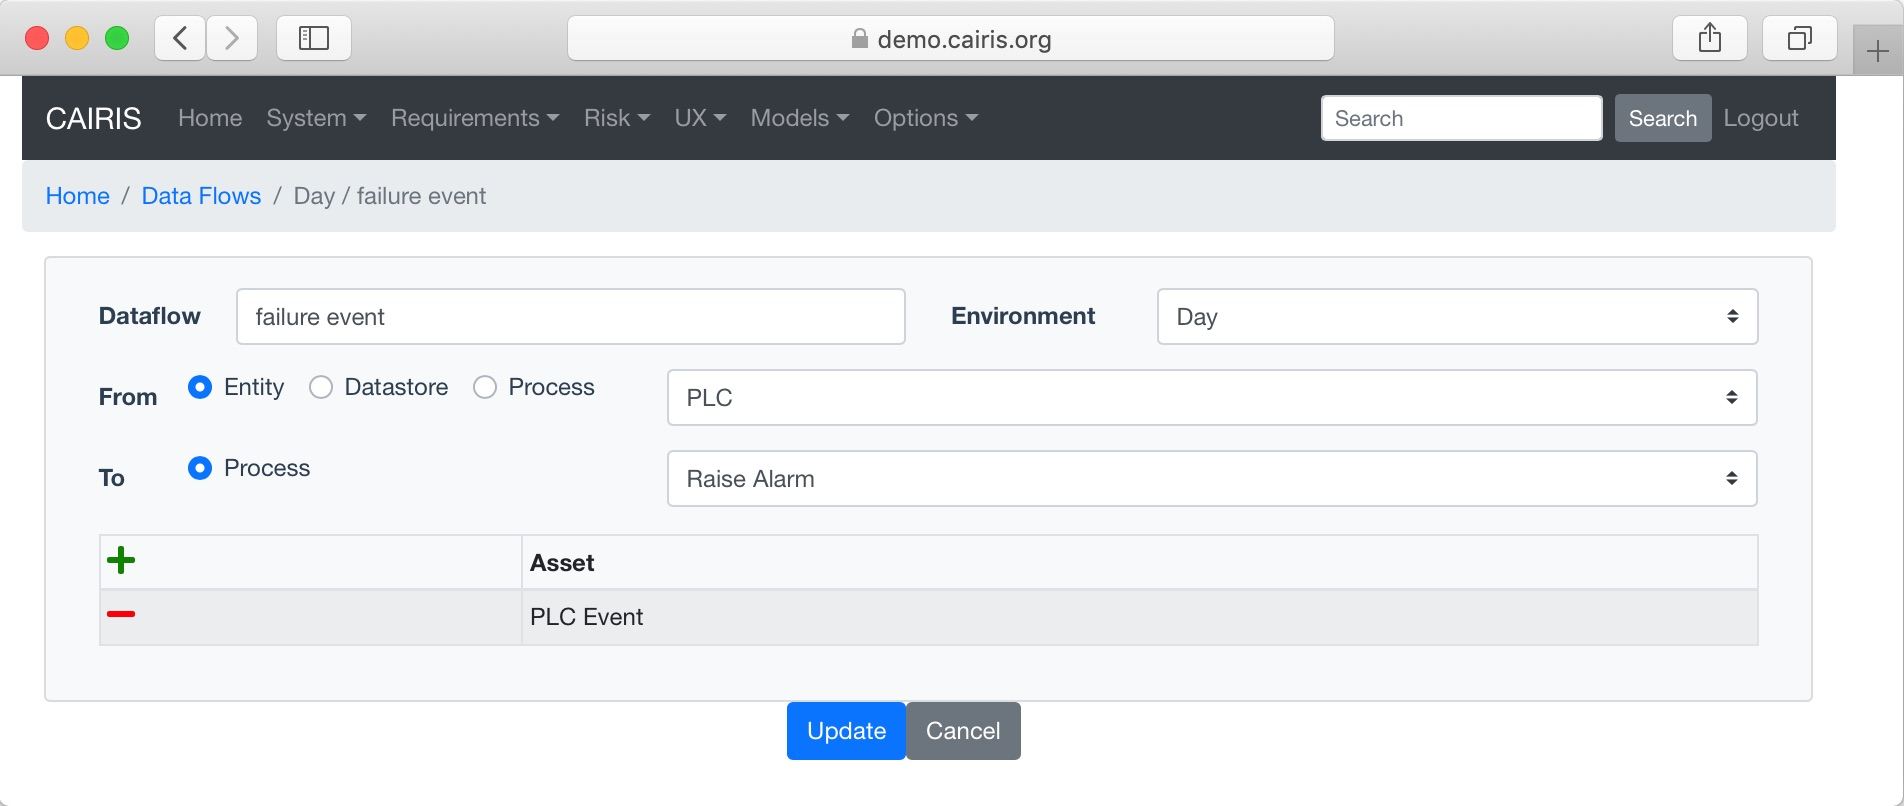
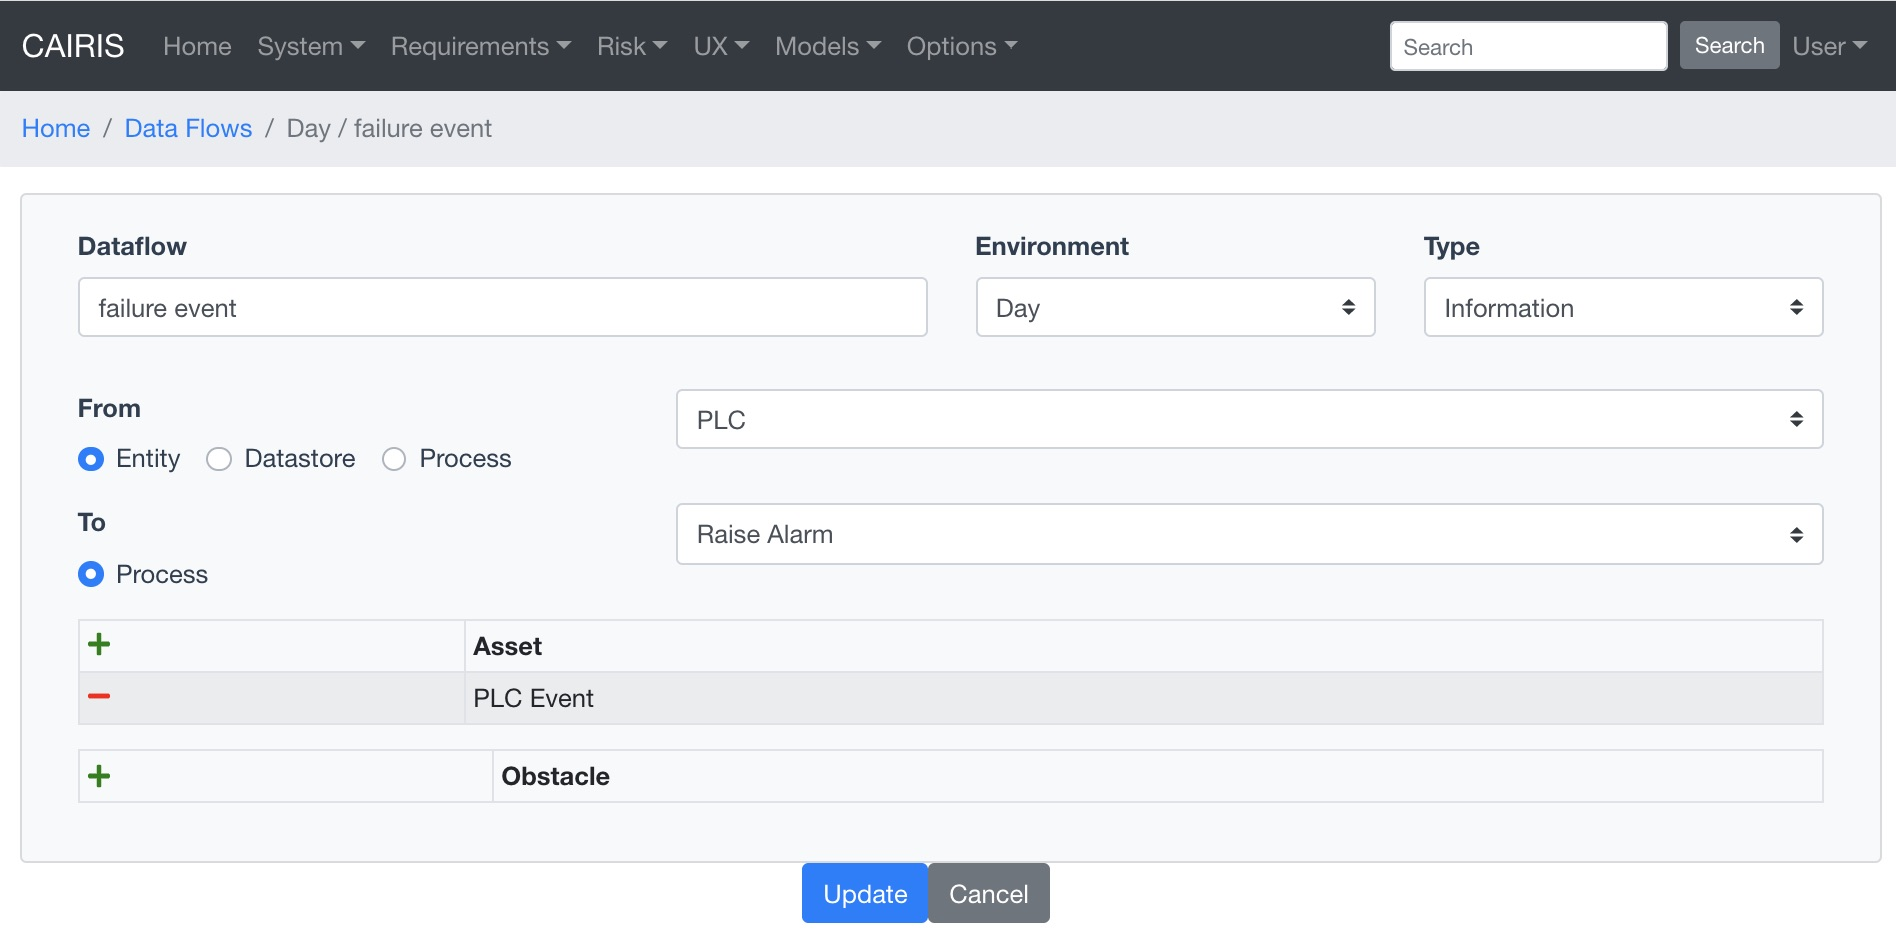
Fix #531

diff --git a/cairis/core/MySQLDatabaseProxy.py b/cairis/core/MySQLDatabaseProxy.py
@@ -4651,10 +4651,10 @@ class MySQLDatabaseProxy:
   def getDataFlows(self,dfName='',envName=''):
     dfRows = self.responseList('call getDataFlows(:df,:env)',{'df':dfName,'env':envName},'MySQL error getting data flows')
     dataFlows = []
-    for dfName,envName,fromName,fromType,toName,toType in dfRows:
+    for dfName,dfType,envName,fromName,fromType,toName,toType in dfRows:
       dfAssets = self.getDataFlowAssets(dfName,envName)
       dfObs = self.getDataFlowObstacles(dfName,envName)
-      parameters = DataFlowParameters(dfName,envName,fromName,fromType,toName,toType,dfAssets,dfObs)
+      parameters = DataFlowParameters(dfName,dfType,envName,fromName,fromType,toName,toType,dfAssets,dfObs)
       df = ObjectFactory.build(-1,parameters)
       dataFlows.append(df)
     return dataFlows
@@ -4668,6 +4668,7 @@ class MySQLDatabaseProxy:
 
   def addDataFlow(self,parameters):
     dfName = parameters.name()
+    dfType = parameters.type()
     envName = parameters.environment()
     fromName = parameters.fromName()
     fromType = parameters.fromType()
@@ -4675,7 +4676,7 @@ class MySQLDatabaseProxy:
     toType = parameters.toType()
     dfAssets = parameters.assets()
     dfObs = parameters.obstacles()
-    self.updateDatabase('call addDataFlow(:df,:env,:fName,:fType,:tName,:tType)',{'df':dfName,'env':envName,'fName':fromName,'fType':fromType,'tName':toName,'tType':toType},'MySQL error adding data flow')
+    self.updateDatabase('call addDataFlow(:df,:dfType,:env,:fName,:fType,:tName,:tType)',{'df':dfName,'dfType':dfType,'env':envName,'fName':fromName,'fType':fromType,'tName':toName,'tType':toType},'MySQL error adding data flow')
     for dfAsset in dfAssets:
       self.addDataFlowAsset(dfName,envName,fromType,fromName,toType,toName,dfAsset)
     for dfOb in dfObs:
@@ -4689,6 +4690,7 @@ class MySQLDatabaseProxy:
 
   def updateDataFlow(self,oldDfName,oldEnvName,parameters):
     dfName = parameters.name()
+    dfType = parameters.type()
     envName = parameters.environment()
     fromName = parameters.fromName()
     fromType = parameters.fromType()
@@ -4698,7 +4700,7 @@ class MySQLDatabaseProxy:
     dfObs = parameters.obstacles()
     session = self.updateDatabase('call deleteDataFlowAssets(:df,:env)',{'df':oldDfName,'env':oldEnvName},'MySQL error deleting data flow assets',None,False)
     self.updateDatabase('call deleteDataFlowObstacles(:df,:env)',{'df':oldDfName,'env':oldEnvName},'MySQL error deleting data flow obstacles',session,False)
-    self.updateDatabase('call updateDataFlow(:oDf,:nDf,:oEnv,:nEnv,:fName,:fType,:tName,:tType)',{'oDf':oldDfName,'nDf':dfName,'oEnv':oldEnvName,'nEnv':envName,'fName':fromName,'fType':fromType,'tName':toName,'tType':toType},'MySQL error updating data flow',session)
+    self.updateDatabase('call updateDataFlow(:oDf,:nDf,:dfType,:oEnv,:nEnv,:fName,:fType,:tName,:tType)',{'oDf':oldDfName,'nDf':dfName,'dfType':dfType,'oEnv':oldEnvName,'nEnv':envName,'fName':fromName,'fType':fromType,'tName':toName,'tType':toType},'MySQL error updating data flow',session)
     for dfAsset in dfAssets:
       self.addDataFlowAsset(dfName,envName,fromType,fromName,toType,toName,dfAsset)
     for dfOb in dfObs:

diff --git a/cairis/test/test_DataFlow.py b/cairis/test/test_DataFlow.py
@@ -93,12 +93,13 @@ class DataFlowTest(unittest.TestCase):
     self.dfJson = d['dataflows'][0]
 
   def testAddDataFlow(self):
-    idfp = DataFlowParameters(self.dfJson['theName'],self.dfJson['theEnvironmentName'],self.dfJson['theFromName'],self.dfJson['theFromType'],self.dfJson['theToName'],self.dfJson['theToType'],self.dfJson['theAssets'],self.dfJson['theObstacles'])
+    idfp = DataFlowParameters(self.dfJson['theName'],self.dfJson['theType'],self.dfJson['theEnvironmentName'],self.dfJson['theFromName'],self.dfJson['theFromType'],self.dfJson['theToName'],self.dfJson['theToType'],self.dfJson['theAssets'],self.dfJson['theObstacles'])
     b = Borg()
     b.dbProxy.addDataFlow(idfp)
     odfs = b.dbProxy.getDataFlows()
     odf = odfs[0]
     self.assertEqual(idfp.name(),odf.name())
+    self.assertEqual(idfp.type(),odf.type())
     self.assertEqual(idfp.environment(),odf.environment())
     self.assertEqual(idfp.fromName(),odf.fromName())
     self.assertEqual(idfp.fromType(),odf.fromType())
@@ -108,7 +109,7 @@ class DataFlowTest(unittest.TestCase):
     self.assertEqual(idfp.obstacles(),odf.obstacles())
 
   def testUpdateDataFlow(self):
-    idfp = DataFlowParameters(self.dfJson['theName'],self.dfJson['theEnvironmentName'],self.dfJson['theFromName'],self.dfJson['theFromType'],self.dfJson['theToName'],self.dfJson['theToType'],self.dfJson['theAssets'],self.dfJson['theObstacles'])
+    idfp = DataFlowParameters(self.dfJson['theName'],self.dfJson['theType'],self.dfJson['theEnvironmentName'],self.dfJson['theFromName'],self.dfJson['theFromType'],self.dfJson['theToName'],self.dfJson['theToType'],self.dfJson['theAssets'],self.dfJson['theObstacles'])
     b = Borg()
     b.dbProxy.addDataFlow(idfp)
     idfp.theName = 'Authenticate'
@@ -116,6 +117,7 @@ class DataFlowTest(unittest.TestCase):
     odfs = b.dbProxy.getDataFlows()
     odf = odfs[0]
     self.assertEqual(idfp.name(),odf.name())
+    self.assertEqual(idfp.type(),odf.type())
     self.assertEqual(idfp.environment(),odf.environment())
     self.assertEqual(idfp.fromName(),odf.fromName())
     self.assertEqual(idfp.fromType(),odf.fromType())
@@ -126,6 +128,13 @@ class DataFlowTest(unittest.TestCase):
 
   def testImportDataflows(self):
     self.assertEqual(importDataflowsFile(os.environ['CAIRIS_SRC'] + '/test/testdataflow.xml'),'Imported 1 dataflow. Imported 0 trust boundaries.')
+
+  def testImportDataflowsWithoutTypee(self):
+    self.assertEqual(importDataflowsFile(os.environ['CAIRIS_SRC'] + '/test/testdataflow_withouttype.xml'),'Imported 1 dataflow. Imported 0 trust boundaries.')
+    b = Borg()
+    odfs = b.dbProxy.getDataFlows()
+    odf = odfs[0]
+    self.assertEqual(odf.type(),'Information')
 
   def testExportDataflows(self):
     importDataflowsFile(os.environ['CAIRIS_SRC'] + '/test/testdataflow.xml')

diff --git a/cairis/test/test_DataFlowAPI.py b/cairis/test/test_DataFlowAPI.py
@@ -49,6 +49,7 @@ class DataFlowAPITests(CairisDaemonTestCase):
     self.existing_from_type = 'entity'
     self.existing_to_name = 'Authenticate Researcher'
     self.existing_to_type = 'process'
+    self.existing_type = 'Information'
     self.existing_assets = ['Credentials']
 
     dataflow_class = DataFlow.__module__+'.'+DataFlow.__name__
@@ -81,6 +82,7 @@ class DataFlowAPITests(CairisDaemonTestCase):
     dataflow = jsonpickle.decode(responseData)
     self.assertIsNotNone(dataflow, 'No results after deserialization')
     self.assertEqual(dataflow['theName'],self.existing_dataflow_name)
+    self.assertEqual(dataflow['theType'],self.existing_type)
     self.assertEqual(dataflow['theEnvironmentName'],self.existing_environment_name)
     self.assertEqual(dataflow['theFromName'],self.existing_from_name)
     self.assertEqual(dataflow['theFromType'],self.existing_from_type)
@@ -141,6 +143,7 @@ class DataFlowAPITests(CairisDaemonTestCase):
     self.assertIsNotNone(upd_dataflow, 'Unable to decode JSON data')
 
     self.assertEqual(upd_dataflow['theName'],dataflow_to_update.name())
+    self.assertEqual(upd_dataflow['theType'],dataflow_to_update.type())
     self.assertEqual(upd_dataflow['theEnvironmentName'],dataflow_to_update.environment())
     self.assertEqual(upd_dataflow['theFromName'],dataflow_to_update.fromName())
     self.assertEqual(upd_dataflow['theFromType'],dataflow_to_update.fromType())
@@ -186,6 +189,7 @@ class DataFlowAPITests(CairisDaemonTestCase):
   def prepare_new_dataflow(self):
     new_dataflow = DataFlow(
       dfName='acknowledge',
+      dfType='Information',
       envName='Psychosis',
       fromName='Authenticate Researcher',
       fromType='process',

diff --git a/cairis/mio/DataflowsContentHandler.py b/cairis/mio/DataflowsContentHandler.py
@@ -39,6 +39,7 @@ class DataflowsContentHandler(ContentHandler,EntityResolver):
 
   def resetDataFlowAttributes(self):
     self.theName = ''
+    self.theType = 'Information'
     self.theEnvironmentName = ''
     self.theFromName = ''
     self.theFromType = ''
@@ -60,6 +61,8 @@ class DataflowsContentHandler(ContentHandler,EntityResolver):
     self.currentElementName = name
     if name == 'dataflow':
       self.theName = attrs['name']
+      if 'type' in attrs:
+        self.theType = attrs['type']
       self.theEnvironmentName = attrs['environment']
       self.theFromName = attrs['from_name']
       self.theFromType = attrs['from_type']
@@ -91,7 +94,7 @@ class DataflowsContentHandler(ContentHandler,EntityResolver):
 
   def endElement(self,name):
     if name == 'dataflow':
-      self.theDataFlows.append(DataFlowParameters(self.theName,self.theEnvironmentName,self.theFromName,self.theFromType,self.theToName,self.theToType,self.theAssets,self.theObstacles))
+      self.theDataFlows.append(DataFlowParameters(self.theName,self.theType,self.theEnvironmentName,self.theFromName,self.theFromType,self.theToName,self.theToType,self.theAssets,self.theObstacles))
       self.resetDataFlowAttributes()
     elif name == 'trust_boundary_environment':
       self.theEnvironmentComponents[self.theEnvironmentName] = self.theComponents

diff --git a/cairis/core/DataFlowParameters.py b/cairis/core/DataFlowParameters.py
@@ -20,9 +20,10 @@ from .ObjectCreationParameters import ObjectCreationParameters
 __author__ = 'Shamal Faily'
 
 class DataFlowParameters(ObjectCreationParameters):
-  def __init__(self,dfName,envName,fromName,fromType,toName,toType,dfAssets,dfObs = []):
+  def __init__(self,dfName,dfType,envName,fromName,fromType,toName,toType,dfAssets,dfObs = []):
     ObjectCreationParameters.__init__(self)
     self.theName = dfName
+    self.theType = dfType
     self.theEnvironmentName = envName
     self.theFromName = fromName
     self.theFromType = fromType
@@ -32,6 +33,7 @@ class DataFlowParameters(ObjectCreationParameters):
     self.theObstacles = dfObs
 
   def name(self): return self.theName
+  def type(self): return self.theType
   def environment(self): return self.theEnvironmentName
   def fromName(self): return self.theFromName
   def fromType(self): return self.theFromType

diff --git a/cairis/core/DataFlow.py b/cairis/core/DataFlow.py
@@ -18,8 +18,9 @@
 __author__ = 'Shamal Faily'
 
 class DataFlow:
-  def __init__(self,dfName,envName,fromName,fromType,toName,toType,dfAssets,dfObs = []):
+  def __init__(self,dfName,dfType,envName,fromName,fromType,toName,toType,dfAssets,dfObs = []):
     self.theName = dfName
+    self.theType = dfType
     self.theEnvironmentName = envName
     self.theFromName = fromName
     self.theFromType = fromType
@@ -29,6 +30,7 @@ class DataFlow:
     self.theObstacles = dfObs
 
   def name(self): return self.theName
+  def type(self): return self.theType
   def environment(self): return self.theEnvironmentName
   def fromName(self): return self.theFromName
   def fromType(self): return self.theFromType

diff --git a/cairis/data/DataFlowDAO.py b/cairis/data/DataFlowDAO.py
@@ -58,6 +58,7 @@ class DataFlowDAO(CairisDAO):
   def add_object(self, dataflow):
     df_params = DataFlowParameters(
       dfName=dataflow.name(),
+      dfType=dataflow.type(),
       envName=dataflow.environment(),
       fromName=dataflow.fromName(),
       fromType=dataflow.fromType(),
@@ -84,6 +85,7 @@ class DataFlowDAO(CairisDAO):
 
     df_params = DataFlowParameters(
       dfName=dataflow.name(),
+      dfType=dataflow.type(),
       envName=dataflow.environment(),
       fromName=dataflow.fromName(),
       fromType=dataflow.fromType(),

diff --git a/cairis/core/ObjectFactory.py b/cairis/core/ObjectFactory.py
@@ -174,5 +174,5 @@ def build(objtId,p):
   if (p.__class__.__name__ == 'LocationsParameters'):
     return Locations(objtId,p.name(),p.diagram(),p.locations(),p.links())
   if (p.__class__.__name__ == 'DataFlowParameters'):
-    return DataFlow(p.name(),p.environment(),p.fromName(),p.fromType(),p.toName(),p.toType(),p.assets(),p.obstacles())
+    return DataFlow(p.name(),p.type(),p.environment(),p.fromName(),p.fromType(),p.toName(),p.toType(),p.assets(),p.obstacles())
   else: raise UnknownParameterClass(str(objtId))

diff --git a/cairis/tools/ModelDefinitions.py b/cairis/tools/ModelDefinitions.py
@@ -1185,6 +1185,7 @@ class DataFlowModel(object):
   resource_fields = {
     obj_id_field: fields.String,
     "theName": fields.String,
+    "theType": fields.String,
     "theEnvironmentName": fields.String,
     "theFromName": fields.String,
     "theFromType": fields.String,

diff --git a/docs/threats_tm.rst b/docs/threats_tm.rst
@@ -75,9 +75,11 @@ Adding, updating, or deleting data flows
 
 -   To add a data flow, select the UX / Data Flows menu to open the Data Flows table.  Click on the Add button to open a dialog for adding a new data flow.
 
--   Enter the name for the data flow, and select the environment the data flow is specific to.  You should also select the *from* and *to* types associated with the flow.  These types are Entities, Data Stores, and Processes, where Entities are information, hardware, or people assets, Data Stores are information assets, and Processes are use cases.
+-   Enter the name for the data flow, select the environment the data flow is specific to, and select the data flow type.  You should also select the *from* and *to* types associated with the flow.  These types are Entities, Data Stores, and Processes, where Entities are information, hardware, or people assets, Data Stores are information assets, and Processes are use cases.
 
 -   Click the Add button in the Asset table to choose one or more assets carried by this data flow.
+
+-   Should there be any obstructions to the data flow, click the Add button in the Obstacle table to add associated obstacles.
 
 -   Click on the Create button to add the data flow to the Data Flows table.
 
